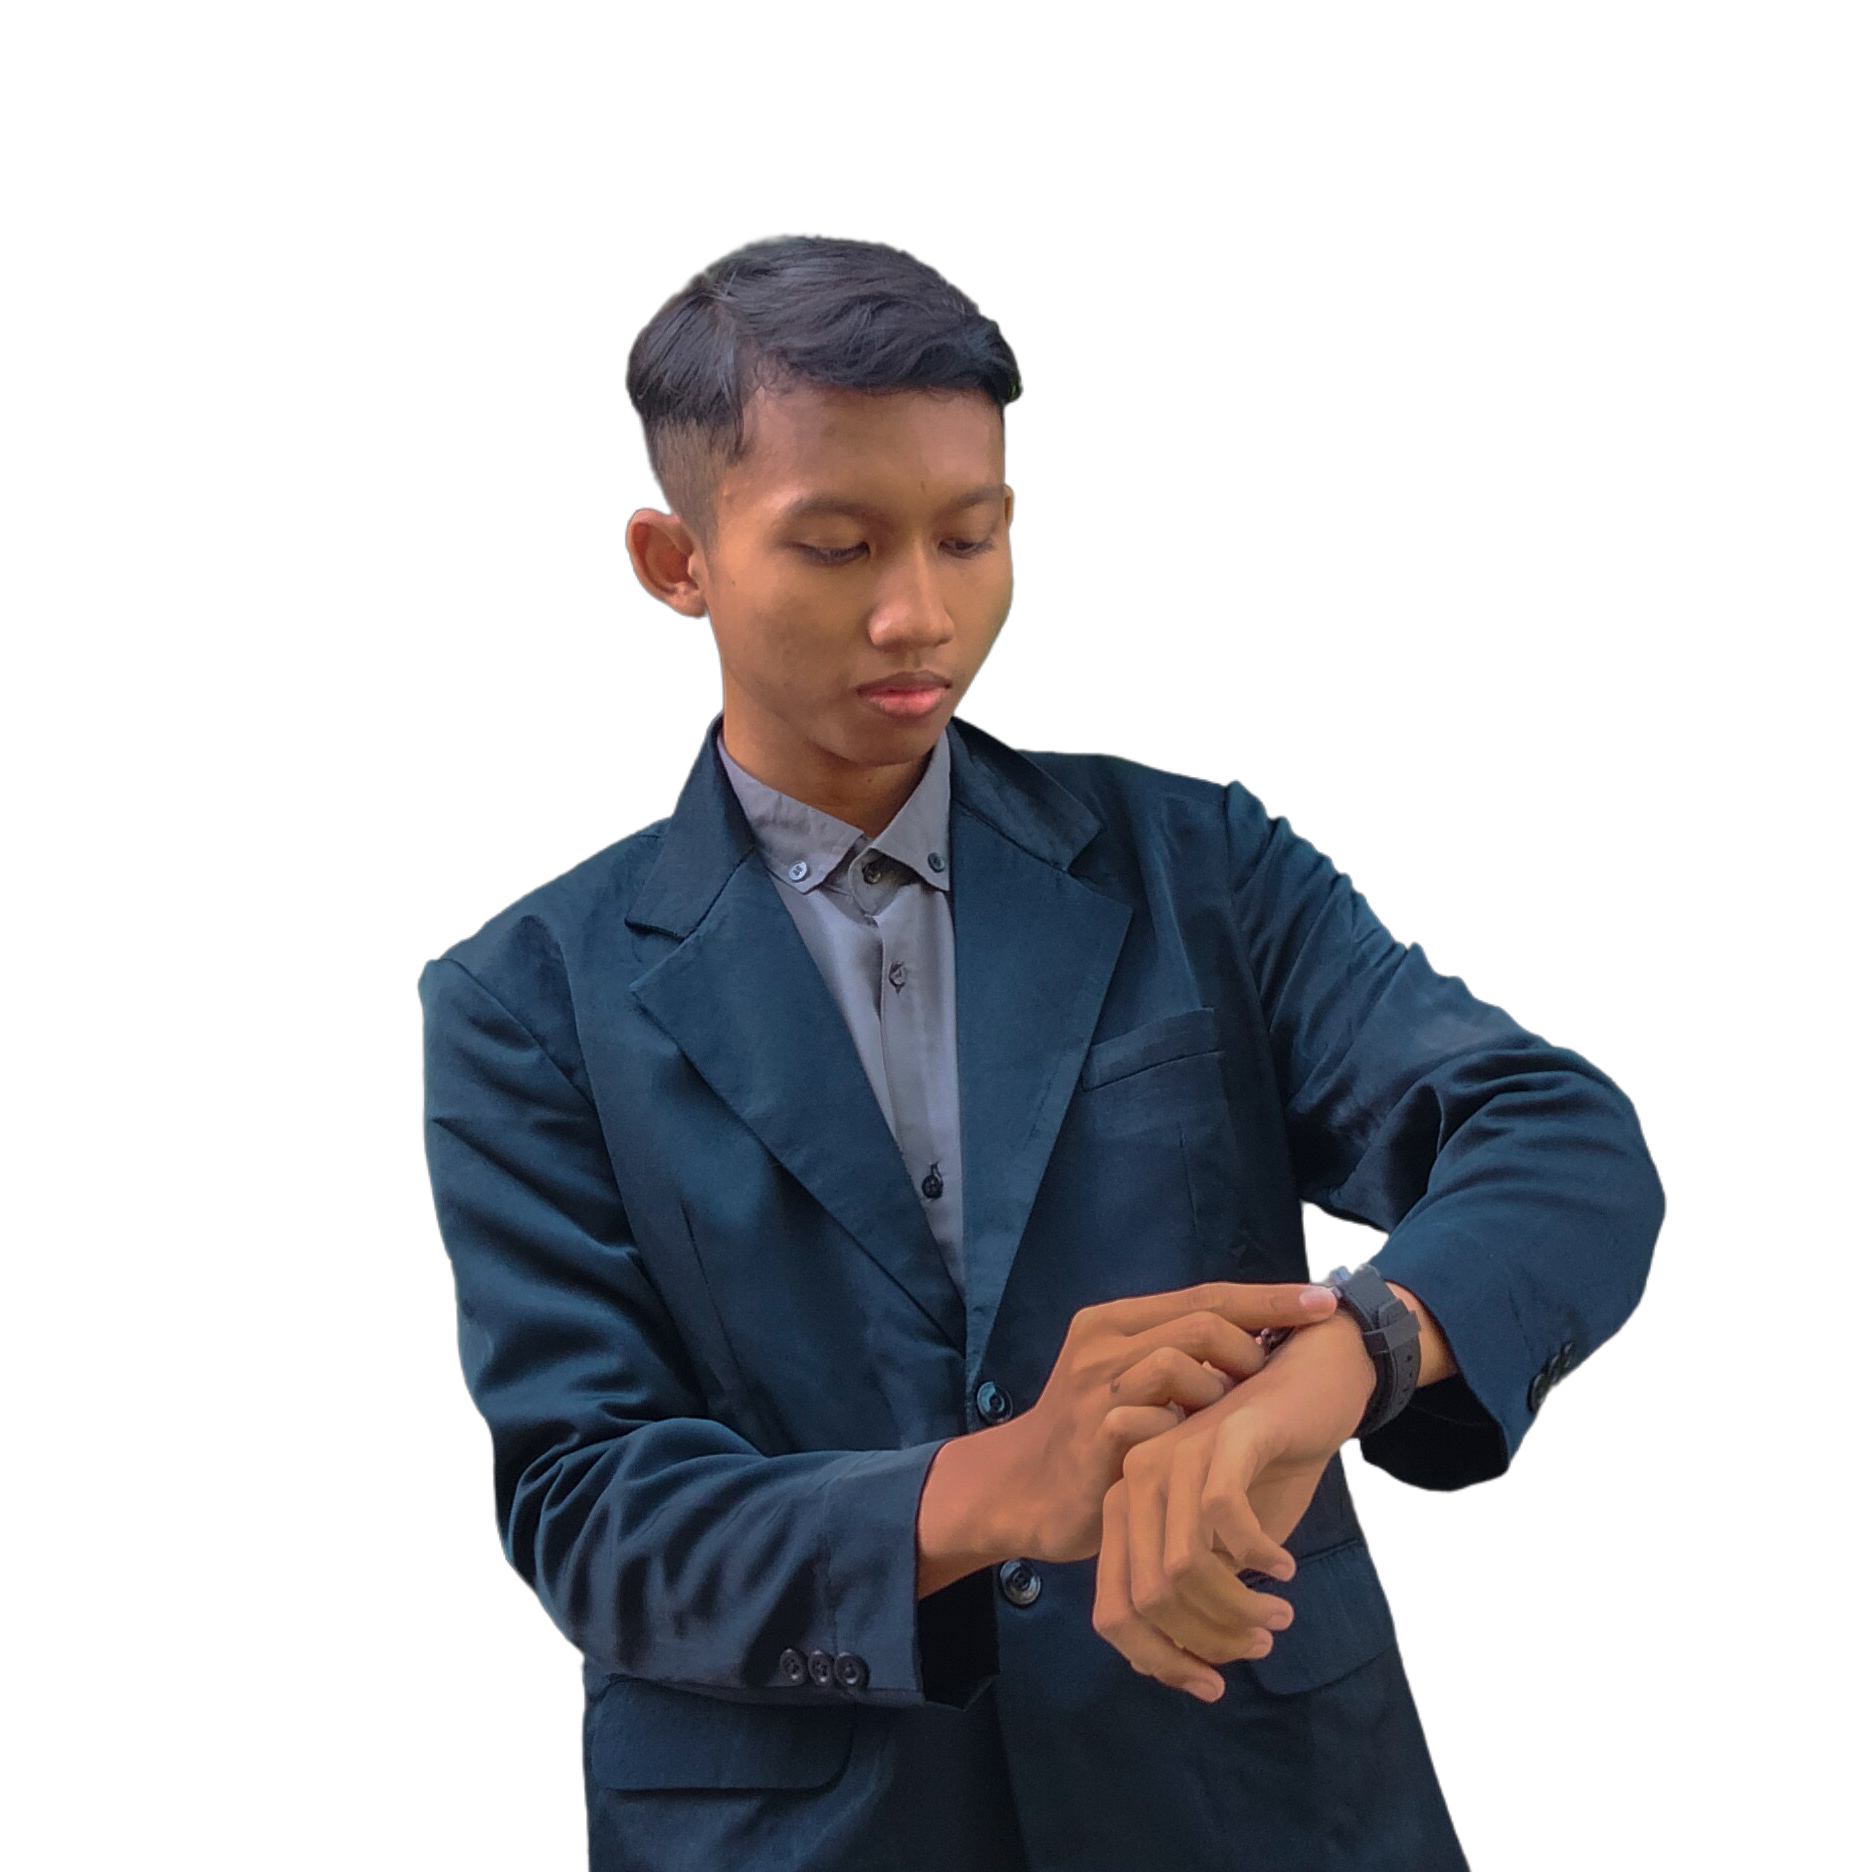
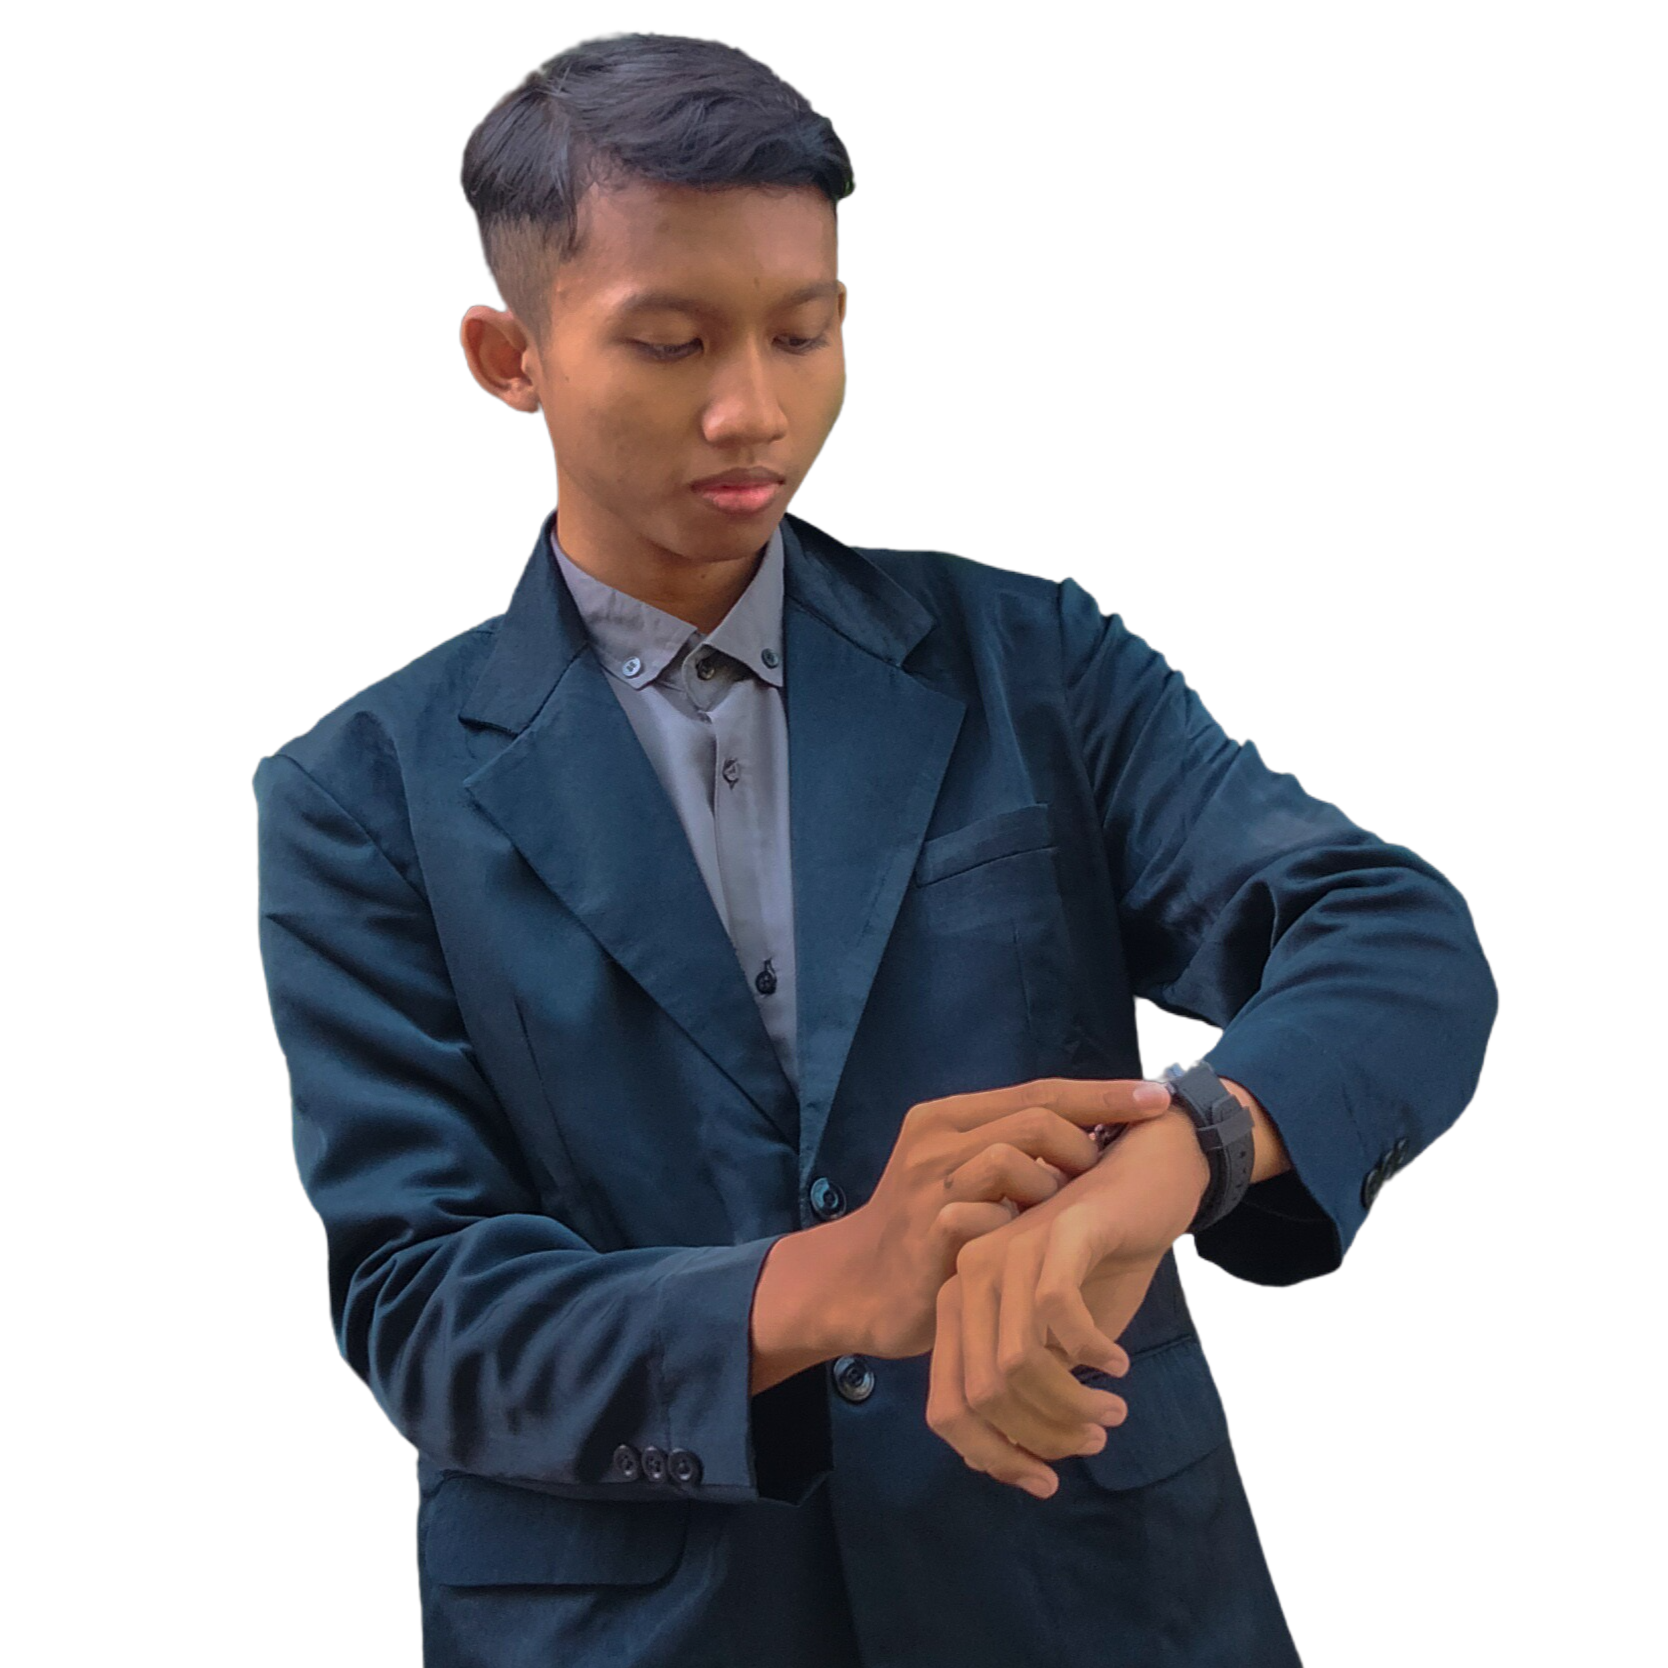
portfolio | add nav

Changed region(s): [[0.1559, 0.0, 0.9041, 1.0], [0.7482, 0.9041, 0.7794, 0.9976], [0.7794, 0.9976, 0.8106, 1.0]]

diff --git a/components/Header.js b/components/Header.js
@@ -1,24 +1,8 @@
 'use client';
 import { Link as ScrollLink } from 'react-scroll';
+// components
 import Logo from './Logo';
-
-const links = [
-	{
-		name: 'home',
-	},
-	{
-		name: 'about',
-	},
-	{
-		name: 'journey',
-	},
-	{
-		name: 'work',
-	},
-	{
-		name: 'contact',
-	},
-];
+import Nav from './Nav';
 
 function Header() {
 	return (
@@ -27,8 +11,10 @@ function Header() {
 				<div className="flex flex-col lg:flex-row items-center gap-4 lg:justify-between">
 					{/* logo */}
 					<Logo />
-					{/* nav & socials */}
-					<div>nav</div>
+					<div className="flex items-center gap-12">
+						{/* nav & socials */}
+						<Nav containerStyles="hidden xl:flex" listStyles="flex gap-6" linkStyles="text-primary font-primary text-lg tracking-[1.4px] transition-all duration-300 cursor-pointer" />
+					</div>
 					<div>socials</div>
 				</div>
 			</div>

diff --git a/components/Nav.js b/components/Nav.js
@@ -1,0 +1,38 @@
+'use client';
+import { Link as ScrollLink } from 'react-scroll';
+
+const links = [
+	{
+		name: 'home',
+	},
+	{
+		name: 'about',
+	},
+	{
+		name: 'journey',
+	},
+	{
+		name: 'work',
+	},
+	{
+		name: 'contact',
+	},
+];
+
+function Nav({ containerStyles, listStyles, linkStyles, spy }) {
+	return (
+		<nav className={containerStyles}>
+			<ul className={listStyles}>
+				{links.map((link, index) => {
+					return (
+						<ScrollLink spy={spy} key={index} activeClass="active" to={link.name} smooth className={linkStyles}>
+							{link.name}
+						</ScrollLink>
+					);
+				})}
+			</ul>
+		</nav>
+	);
+}
+
+export default Nav;

diff --git a/components/Hero.js b/components/Hero.js
@@ -29,7 +29,7 @@ function Hero() {
 				</div>
 				{/* Image */}
 				<div className="hidden xl:flex w-[55vw] h-[800px] absolute top-0 right-0 bg-accent">
-					<div className="absolute w-[750px] h-[750px] bottom-0 z-40 left-[5vw]">
+					<div className="absolute w-[650px] h-[650px] bottom-0 z-40 left-[8vw]">
 						<Image src="/assets/Profilen.png" alt="me" fill quality="100" priority className="object-contain"></Image>
 					</div>
 					<div className="hidden xl:flex absolute top-44 left-[6vw]">
